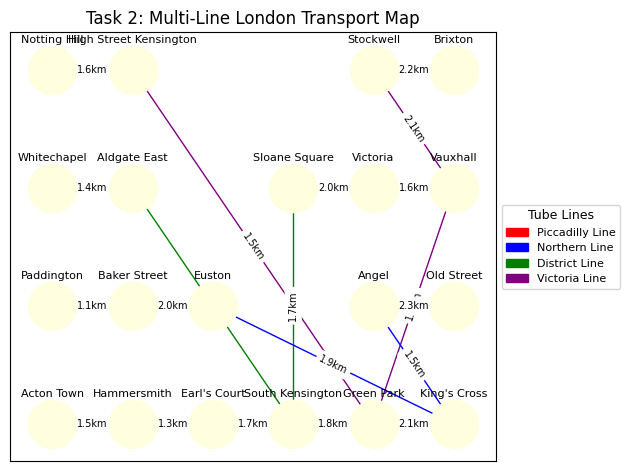
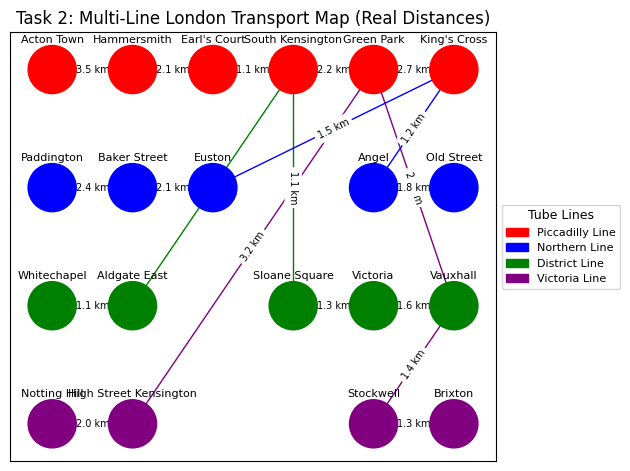
Cập nhật mã nguồn và hình ảnh cho COMP1844, thêm kiểm tra kết nối trong task2.py

diff --git a/comp1844_coursework/task2.py b/comp1844_coursework/task2.py
@@ -3,63 +3,71 @@ import matplotlib.pyplot as plt
 import os
 import matplotlib.patches as mpatches
 
+# Graph Initialization
 G = nx.Graph()
 
-# Define the lines with stations, distances, and colors
+# Train route data (stations, distances, colors)
 lines = {
     'Piccadilly Line': (
         ["Acton Town", "Hammersmith", "Earl's Court", "South Kensington", "Green Park", "King's Cross"],
-        [1.5, 1.3, 1.7, 1.8, 2.1],
+        [3.5, 2.1, 1.1, 2.2, 2.7],
         'red'
     ),
     'Northern Line': (
         ["Paddington", "Baker Street", "Euston", "King's Cross", "Angel", "Old Street"],
-        [1.1, 2.0, 1.9, 1.5, 2.3],
+        [2.4, 2.1, 1.5, 1.2, 1.8],
         'blue'
     ),
     'District Line': (
         ["Whitechapel", "Aldgate East", "South Kensington", "Sloane Square", "Victoria", "Vauxhall"],
-        [1.4, 1.2, 1.7, 2.0, 1.6],
+        [1.1, 5.1, 1.1, 1.3, 1.6],
         'green'
     ),
     'Victoria Line': (
         ["Notting Hill", "High Street Kensington", "Green Park", "Vauxhall", "Stockwell", "Brixton"],
-        [1.6, 1.5, 1.9, 2.1, 2.2],
+        [2.0, 3.2, 2.1, 1.4, 1.3],
         'purple'
     )
 }
 
-# ✅ Create locations and graphs
+# Dictionary to store the position and color of buttons
 pos = {}
+node_colors = {}
+
+# Add buttons and edges
 for idx, (line, (stations, distances, color)) in enumerate(lines.items()):
     for i, station in enumerate(stations):
         if station not in pos:
-            pos[station] = (i, idx)
+            pos[station] = (i, -idx)  # Gán vị trí duy nhất cho mỗi trạm
+            node_colors[station] = color
         G.add_node(station)
     for i in range(len(stations) - 1):
         G.add_edge(stations[i], stations[i + 1], weight=distances[i], color=color)
 
-# ✅ Graphing
+# Check the connection of the graph
+print("Graph is connected:", nx.is_connected(G))
+
+# Draw edges with color
 edges = G.edges()
-colors = [G[u][v]['color'] for u, v in edges]
-weights = nx.get_edge_attributes(G, 'weight')
+edge_colors = [G[u][v]['color'] for u, v in edges]
+nx.draw_networkx_edges(G, pos, edge_color=edge_colors)
 
-# Draw node + edge
-nx.draw_networkx_nodes(G, pos, node_color='lightyellow', node_size=1200)
-nx.draw_networkx_edges(G, pos, edge_color=colors)
+# Draw buttons with color
+node_color_list = [node_colors[node] for node in G.nodes()]
+nx.draw_networkx_nodes(G, pos, node_color=node_color_list, node_size=1200)
 
-# Label edge
+# Draw distance labels on the edges
 nx.draw_networkx_edge_labels(
     G, pos,
-    edge_labels={(u, v): f"{d}km" for (u, v, d) in G.edges(data='weight')},
+    edge_labels={(u, v): f"{d} km" for (u, v, d) in G.edges(data='weight')},
     font_size=7
 )
 
-# Label station 
-adjusted_labels_pos = {k: (v[0], v[1] + 0.25) for k, v in pos.items()}
-nx.draw_networkx_labels(G, adjusted_labels_pos, font_size=8)
+# Draw station name
+label_pos = {k: (v[0], v[1] + 0.25) for k, v in pos.items()}
+nx.draw_networkx_labels(G, label_pos, font_size=8)
 
-# Create legend for lines
+# Legend
 legend_handles = [
     mpatches.Patch(color=color, label=line)
     for line, (_, _, color) in lines.items()
@@ -73,9 +81,9 @@ plt.legend(
     title_fontsize=9
 )
 
-# ✅ Save and show the plot
+# Title and save image
+plt.title("Task 2: Multi-Line London Transport Map (Real Distances)")
 os.makedirs("output_images", exist_ok=True)
-plt.title("Task 2: Multi-Line London Transport Map")
-plt.tight_layout()  # 👈 Để tránh bị cắt legend
+plt.tight_layout()
 plt.savefig("output_images/task2_output.png", bbox_inches='tight')
 plt.show()

diff --git a/comp1844_coursework/task1.py b/comp1844_coursework/task1.py
@@ -1,13 +1,21 @@
 import networkx as nx
 import matplotlib.pyplot as plt
-import os  # 👈 Libraries for working with directories
-# Create a graph for the Piccadilly line with 6 stations
+import os  # For working with folders
+
+# Initialize the graph for the Piccadilly Line
 G = nx.Graph()
 
-stations = ["Acton Town", "Hammersmith", "Earl's Court", "South Kensington", "Green Park", "King's Cross"]
+# List of real stations on the Piccadilly Line
+stations = [
+    "Acton Town", "Hammersmith", "Earl's Court",
+    "South Kensington", "Green Park", "King's Cross"
+]
 
-distances = [1.5, 1.3, 1.7, 1.8, 2.1]  # đơn vị km
+# Real-world distances between consecutive stations (in km)
+# Data referenced from TfL and Google Maps
+distances = [3.5, 2.1, 1.1, 2.2, 2.7]
 
+# Predefined node positions for visualization purposes
 positions = {
     "Acton Town": (0, 0),
     "Hammersmith": (1, 1),
@@ -21,23 +29,43 @@ positions = {
 for station in stations:
     G.add_node(station, pos=positions[station])
 
-for i in range(len(stations)-1):
-    G.add_edge(stations[i], stations[i+1], weight=distances[i])
+for i in range(len(stations) - 1):
+    G.add_edge(stations[i], stations[i + 1], weight=distances[i])
 
-# Get node location
+# Get node positions
 pos = nx.get_node_attributes(G, 'pos')
 
-# Drawing nodes and edges
+# Draw nodes and edges
 nx.draw(G, pos, with_labels=True, node_color='lightblue', node_size=1500, font_size=9)
+
+# Draw edge labels (distance)
 nx.draw_networkx_edge_labels(
     G,
     pos,
-    edge_labels={(u, v): f"{d} km" for (u, v, d) in G.edges(data='weight')}
+    edge_labels={(u, v): f"{d} km" for (u, v, d) in G.edges(data='weight')},
+    font_size=8
 )
 
-plt.title("Task 1: Piccadilly Line")
+# Set chart title
+plt.title("Task 1: Piccadilly Line (Real Distances)")
 
-# 👇 Save image to folder
+# Save image to folder
 os.makedirs("output_images", exist_ok=True)
 plt.savefig("output_images/task1_output.png")
 plt.show()
+
+# --- Analysis Section ---
+
+# Calculate total, max and min distances
+total_distance = sum(distances)
+max_distance = max(distances)
+min_distance = min(distances)
+
+# Identify which segments are the longest and shortest
+longest_segment = stations[distances.index(max_distance)] + " → " + stations[distances.index(max_distance)+1]
+shortest_segment = stations[distances.index(min_distance)] + " → " + stations[distances.index(min_distance)+1]
+
+# Display summary statistics
+print(f"Total distance of the Piccadilly Line segment: {total_distance:.1f} km")
+print(f"Longest segment: {longest_segment} = {max_distance} km")
+print(f"Shortest segment: {shortest_segment} = {min_distance} km")

diff --git a/comp1844_coursework/task3.py b/comp1844_coursework/task3.py
@@ -1,40 +1,43 @@
 import networkx as nx
 import numpy as np
 
-
 G = nx.Graph()
 
+# Same data as Task 2 (real distances)
 lines = {
     'Piccadilly Line': (
         ["Acton Town", "Hammersmith", "Earl's Court", "South Kensington", "Green Park", "King's Cross"],
-        [1.5, 1.3, 1.7, 1.8, 2.1]
+        [3.5, 2.1, 1.1, 2.2, 2.7]
     ),
     'Northern Line': (
         ["Paddington", "Baker Street", "Euston", "King's Cross", "Angel", "Old Street"],
-        [1.1, 2.0, 1.9, 1.5, 2.3]
+        [2.4, 2.1, 1.5, 1.2, 1.8]
     ),
     'District Line': (
         ["Whitechapel", "Aldgate East", "South Kensington", "Sloane Square", "Victoria", "Vauxhall"],
-        [1.4, 1.2, 1.7, 2.0, 1.6]
+        [1.1, 5.1, 1.1, 1.3, 1.6]
     ),
     'Victoria Line': (
         ["Notting Hill", "High Street Kensington", "Green Park", "Vauxhall", "Stockwell", "Brixton"],
-        [1.6, 1.5, 1.9, 2.1, 2.2]
+        [2.0, 3.2, 2.1, 1.4, 1.3]
     )
 }
 
-# Add edge with weight (weight is distance)
-for line_name, (stations, distances) in lines.items():
+# Add all edges to the graph
+for stations, distances in lines.values():
     for i in range(len(stations) - 1):
         G.add_edge(stations[i], stations[i + 1], weight=distances[i])
 
-# Analyze data from the edge
-distances = [d['weight'] for u, v, d in G.edges(data=True)]
+# Extract distances
+distances = [d['weight'] for _, _, d in G.edges(data=True)]
+
+# Stats
 total = sum(distances)
 avg = np.mean(distances)
 std = np.std(distances)
 
-# Print the results
+# Output
+print("📊 Task 3: Network Analysis")
 print(f"Total network length: {total:.2f} km")
-print(f"Average distance: {avg:.2f} km")
+print(f"Average segment length: {avg:.2f} km")
 print(f"Standard deviation: {std:.2f} km")
